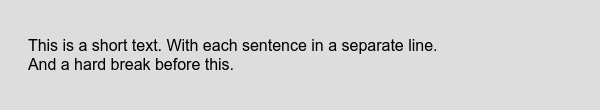
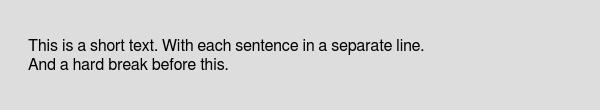
Add typographic replacements and language specification using styles.

Changed region(s): [[0.03, 0.3545, 0.72, 0.4909], [0.03, 0.5182, 0.39, 0.6545]]

diff --git a/src/examples/text/typographic-de.html b/src/examples/text/typographic-de.html
@@ -1,0 +1,14 @@
+<!DOCTYPE html><html lang="de">
+<head>
+<meta charset="UTF-8" />
+
+<title>undefined</title>
+<link rel="stylesheet" href="https://maxcdn.bootstrapcdn.com/font-awesome/4.7.0/css/font-awesome.min.css" />
+<style type="text/css">div#page{border:1px solid #aaa;-webkit-box-shadow:0 8px 16px 0 rgba(0,0,0,0.4),0 12px 40px 0 rgba(0,0,0,0.4);box-shadow:0 8px 16px 0 rgba(0,0,0,0.4),0 12px 40px 0 rgba(0,0,0,0.4);max-width:800px;display:inline-block;background:#fff;padding:17px;overflow:auto;}div#page > h1{margin-top:0}html{background:#ddd;padding:20px}body{font-family:"Helvetica Neue",Helvetica,"Segoe UI",Arial,freesans,sans-serif,"Apple Color Emoji","Segoe UI Emoji","Segoe UI Symbol";font-size:16px;line-height:1.2;-ms-word-break:break-all;word-break:break-all;word-break:break-word;-webkit-hyphens:auto;-moz-hyphens:auto;-ms-hyphens:auto;hyphens:auto;-webkit-hyphenate-before:2;-webkit-hyphenate-after:3;hyphenate-lines:3;word-wrap:break-word}h1,h2,h3,h4,h5,h6{font-weight:bold;}h1:before,h2:before,h3:before,h4:before,h5:before,h6:before{display:block;content:" ";margin-top:-66px;height:66px;visibility:hidden}h1,h2,h3{clear:both}h1{border-bottom:3px solid #222;padding-bottom:5px}h2{border-bottom:2px dotted #222;padding-bottom:3px}h3{border-bottom:2px dotted #aaa;padding-bottom:2px}h4{border-bottom:1px dotted #aaa}a{color:#00008b}dt{font-weight:bold;margin-top:8px}dd{margin-left:20px}svg{max-width:100%}img{max-width:100%;vertical-align:middle}.emoji{height:1em}abbr,acronym{border-bottom:dotted 1px}blockquote{border:1px solid #ddd;border-radius:3px;border-left:5px solid #337ab7;padding:5px 15px;margin:10px 0;}blockquote :first-child{margin-top:5px}blockquote :last-child{margin-bottom:5px}blockquote blockquote{margin-right:-16px;border-left-color:#eb9214;}blockquote blockquote blockquote{border-left-color:#5295cf;}blockquote blockquote blockquote blockquote{border-left-color:#f0ad4e;}blockquote blockquote blockquote blockquote blockquote{border-left-color:#7db0db;}blockquote blockquote blockquote blockquote blockquote blockquote{border-left-color:#f3bd71;}blockquote blockquote blockquote blockquote blockquote blockquote blockquote{border-left-color:#a9cae7}blockquote ul li p{margin-bottom:0}ul > li.task{list-style-type:none}li.taks input.task-checkbox{margin:0 .2em .25em -1.6em;vertical-align:middle}table{border-collapse:collapse;border-spacing:0;display:block;width:100%;overflow:auto;word-break:keep-all;margin-bottom:10px;}table th,table td{padding:6px 13px;border:1px solid #ddd}table th{background-color:rgba(0,0,0,0.04);font-weight:bold;border-bottom:3px solid #999}table tr{background-color:#fff;border-top:1px solid #ccc;}table tr:nth-child(2n){background-color:rgba(0,0,0,0.04)}a code{color:#337ab7}code,tt{background-color:#eee;border-radius:4px;font-size:85%;margin:0;padding:.2em 0}pre{background-color:#eee;border-radius:10px;border:1px solid #a4a4a4;font-size:85%;margin:20px;padding:10px;}pre code,pre tt{background:none}pre.language{counter-reset:line;padding-top:0;padding-bottom:0;overflow-x:hidden;}pre.language code,pre.language tt{display:block;position:relative;float:left;width:100%;border-left:45px solid #ddd;margin-left:-10px;padding-left:5px;}pre.language code:nth-child(2n),pre.language tt:nth-child(2n){border-left:45px solid #c7c7c7;background-color:#ededed}pre.language code:before,pre.language tt:before{counter-increment:line;content:counter(line);min-width:35px;float:left;text-align:right;padding-right:5px;color:#808080;-webkit-touch-callout:none;-webkit-user-select:none;-moz-user-select:none;-ms-user-select:none;user-select:none;-webkit-user-select:none;margin-left:-45px}pre.language code:first-of-type,pre.language tt:first-of-type{padding-top:10px}pre.language code:last-child,pre.language tt:last-child{padding-bottom:10px}ul.table-of-contents{border:2px solid #ddd;border-radius:10px;margin-top:0;padding:10px 10px 10px 25px;background:#fafafa;font-size:90%;float:right;}ul.table-of-contents header{font-weight:bold;font-size:120%;display:block;background:#ddd;margin:-10px -10px 4px -25px;border-top-left-radius:10px;border-top-right-radius:10px;padding:3px 10px}ul.table-of-contents ul{padding-left:15px}ul.table-of-contents a{text-decoration:none}.toplink{float:right;color:#222}.container{padding:0;margin-bottom:10px;}.container:after{content:'';display:table;clear:both}.container input.tab,.container input.tabs-size{display:none}.container input.tab + label{position:relative;z-index:1;display:block;float:left;cursor:pointer;padding:5px 10px;margin-bottom:-1px;border:1px solid #222;border-top-left-radius:10px;border-top-right-radius:10px;background:#ddd;-webkit-transition:all 0.5s;-moz-transition:all 0.5s;-o-transition:all 0.5s;-ms-transition:all 0.5s;transition:all 0.5s;opacity:.5;-ms-filter:"progid:DXImageTransform.Microsoft.Alpha(Opacity=50)";filter:alpha(opacity=50);font-weight:bold}.container input.tab + label:hover,.container input.tab:hover + label{opacity:1;-ms-filter:none;filter:none}.container .box{display:none;position:relative;clear:both;border:1px solid #222;border-top-right-radius:10px;border-bottom-left-radius:10px;border-bottom-right-radius:10px;padding:0 15px;-webkit-transition:all 0.5s;-moz-transition:all 0.5s;-o-transition:all 0.5s;-ms-transition:all 0.5s;transition:all 0.5s;overflow:auto;max-height:300px;}.container .box > p{margin-top:10px}.container input.tab:checked + label{cursor:default;border-bottom:1px solid #fff;opacity:1;-ms-filter:none;filter:none}.container .tab1:checked ~ .box1,.container .tab2:checked ~ .box2,.container .tab3:checked ~ .box3,.container .tab4:checked ~ .box4,.container .tab5:checked ~ .box5,.container .tab6:checked ~ .box6,.container .tab7:checked ~ .box7,.container .tab8:checked ~ .box8{display:block}.container .tabs-size + label{cursor:pointer;float:right;padding:5px 5px 0 5px;font-size:80%}.container .tabs-size-min:checked + label,.container .tabs-size-scroll:checked + label,.container .tabs-size-max:checked + label{display:none}.container .tabs-size-min:checked ~ .box{height:0}.container .tabs-size-max:checked ~ .box{max-height:none}@media print{input.tab + label{opacity:1 !important;-ms-filter:none !important;filter:none !important}.tabs-size-min + label,.tabs-size-scroll + label,.tabs-size-max + label{display:none}.box{display:block !important;max-height:none !important;height:auto !important}}.container input.tab + label.detail{background-image:-webkit-linear-gradient(top, #fafafa 0%, #999 100%);background-image:-moz-linear-gradient(top, #fafafa 0%, #999 100%);background-image:-o-linear-gradient(top, #fafafa 0%, #999 100%);background-image:-ms-linear-gradient(top, #fafafa 0%, #999 100%);background-image:linear-gradient(to bottom, #fafafa 0%, #999 100%);border-bottom-color:#999}.container div.detail{background-image:-webkit-linear-gradient(top, #fafafa 0%, #999 100%);background-image:-moz-linear-gradient(top, #fafafa 0%, #999 100%);background-image:-o-linear-gradient(top, #fafafa 0%, #999 100%);background-image:-ms-linear-gradient(top, #fafafa 0%, #999 100%);background-image:linear-gradient(to bottom, #fafafa 0%, #999 100%)}.container input.tab + label.info{background-image:-webkit-linear-gradient(top, #bedef0 0%, #7cbde1 100%);background-image:-moz-linear-gradient(top, #bedef0 0%, #7cbde1 100%);background-image:-o-linear-gradient(top, #bedef0 0%, #7cbde1 100%);background-image:-ms-linear-gradient(top, #bedef0 0%, #7cbde1 100%);background-image:linear-gradient(to bottom, #bedef0 0%, #7cbde1 100%);border-bottom-color:#7cbde1}.container div.info{background-image:-webkit-linear-gradient(top, #bedef0 0%, #7cbde1 100%);background-image:-moz-linear-gradient(top, #bedef0 0%, #7cbde1 100%);background-image:-o-linear-gradient(top, #bedef0 0%, #7cbde1 100%);background-image:-ms-linear-gradient(top, #bedef0 0%, #7cbde1 100%);background-image:linear-gradient(to bottom, #bedef0 0%, #7cbde1 100%)}.container input.tab + label.ok{background-image:-webkit-linear-gradient(top, #cfc 0%, #9f9 100%);background-image:-moz-linear-gradient(top, #cfc 0%, #9f9 100%);background-image:-o-linear-gradient(top, #cfc 0%, #9f9 100%);background-image:-ms-linear-gradient(top, #cfc 0%, #9f9 100%);background-image:linear-gradient(to bottom, #cfc 0%, #9f9 100%);border-bottom-color:#9f9}.container div.ok{background-image:-webkit-linear-gradient(top, #cfc 0%, #9f9 100%);background-image:-moz-linear-gradient(top, #cfc 0%, #9f9 100%);background-image:-o-linear-gradient(top, #cfc 0%, #9f9 100%);background-image:-ms-linear-gradient(top, #cfc 0%, #9f9 100%);background-image:linear-gradient(to bottom, #cfc 0%, #9f9 100%)}.container input.tab + label.warning{background-image:-webkit-linear-gradient(top, #fde6a5 0%, #fbcd4a 100%);background-image:-moz-linear-gradient(top, #fde6a5 0%, #fbcd4a 100%);background-image:-o-linear-gradient(top, #fde6a5 0%, #fbcd4a 100%);background-image:-ms-linear-gradient(top, #fde6a5 0%, #fbcd4a 100%);background-image:linear-gradient(to bottom, #fde6a5 0%, #fbcd4a 100%);border-bottom-color:#fbcd4a}.container div.warning{background-image:-webkit-linear-gradient(top, #fde6a5 0%, #fbcd4a 100%);background-image:-moz-linear-gradient(top, #fde6a5 0%, #fbcd4a 100%);background-image:-o-linear-gradient(top, #fde6a5 0%, #fbcd4a 100%);background-image:-ms-linear-gradient(top, #fde6a5 0%, #fbcd4a 100%);background-image:linear-gradient(to bottom, #fde6a5 0%, #fbcd4a 100%)}.container input.tab + label.alert{background-image:-webkit-linear-gradient(top, #f7c4b3 0%, #e86 100%);background-image:-moz-linear-gradient(top, #f7c4b3 0%, #e86 100%);background-image:-o-linear-gradient(top, #f7c4b3 0%, #e86 100%);background-image:-ms-linear-gradient(top, #f7c4b3 0%, #e86 100%);background-image:linear-gradient(to bottom, #f7c4b3 0%, #e86 100%);border-bottom-color:#e86}.container div.alert{background-image:-webkit-linear-gradient(top, #f7c4b3 0%, #e86 100%);background-image:-moz-linear-gradient(top, #f7c4b3 0%, #e86 100%);background-image:-o-linear-gradient(top, #f7c4b3 0%, #e86 100%);background-image:-ms-linear-gradient(top, #f7c4b3 0%, #e86 100%);background-image:linear-gradient(to bottom, #f7c4b3 0%, #e86 100%)}.container .box.pre{padding:0;}.container .box.pre pre,.container .box.pre table{margin:0;border:0;border-radius:0}.container input.tab + label.coffeescript,.container input.tab + label.javascript,.container input.tab + label.ruby,.container input.tab + label.python,.container input.tab + label.perl,.container input.tab + label.cc,.container input.tab + label.cpp,.container input.tab + label.cs,.container input.tab + label.java,.container input.tab + label.groovy,.container input.tab + label.php,.container input.tab + label.bash,.container input.tab + label.sql,.container input.tab + label.makefile{background-image:-webkit-linear-gradient(top, #f8d6a7 0%, #f0ad4e 100%);background-image:-moz-linear-gradient(top, #f8d6a7 0%, #f0ad4e 100%);background-image:-o-linear-gradient(top, #f8d6a7 0%, #f0ad4e 100%);background-image:-ms-linear-gradient(top, #f8d6a7 0%, #f0ad4e 100%);background-image:linear-gradient(to bottom, #f8d6a7 0%, #f0ad4e 100%);border-bottom-color:#f0ad4e}.container input.tab + label.json,.container input.tab + label.cson,.container input.tab + label.yaml{background-image:-webkit-linear-gradient(top, #93bde1 0%, #337ab7 100%);background-image:-moz-linear-gradient(top, #93bde1 0%, #337ab7 100%);background-image:-o-linear-gradient(top, #93bde1 0%, #337ab7 100%);background-image:-ms-linear-gradient(top, #93bde1 0%, #337ab7 100%);background-image:linear-gradient(to bottom, #93bde1 0%, #337ab7 100%);border-bottom-color:#337ab7}.container input.tab + label.jsp,.container input.tab + label.handlebars,.container input.tab + label.css,.container input.tab + label.stylus,.container input.tab + label.scss,.container input.tab + label.less{background-image:-webkit-linear-gradient(top, #75e5e2 0%, #1d9a96 100%);background-image:-moz-linear-gradient(top, #75e5e2 0%, #1d9a96 100%);background-image:-o-linear-gradient(top, #75e5e2 0%, #1d9a96 100%);background-image:-ms-linear-gradient(top, #75e5e2 0%, #1d9a96 100%);background-image:linear-gradient(to bottom, #75e5e2 0%, #1d9a96 100%);border-bottom-color:#1d9a96}.container input.tab + label.markdown,.container input.tab + label.html{background-image:-webkit-linear-gradient(top, #9bd09b 0%, #459245 100%);background-image:-moz-linear-gradient(top, #9bd09b 0%, #459245 100%);background-image:-o-linear-gradient(top, #9bd09b 0%, #459245 100%);background-image:-ms-linear-gradient(top, #9bd09b 0%, #459245 100%);background-image:linear-gradient(to bottom, #9bd09b 0%, #459245 100%);border-bottom-color:#459245}.text-red{color:#d13f19}.text-green{color:#2ecc40}.text-yellow{color:#ffdc00}.text-blue{color:#0074d9}.text-magenta{color:#f0f}.text-cyan{color:#0ff}.text-gray{color:#aaa}.bg-white{background-color:#fff}.center{text-align:center}.left{float:left}.right{float:right}.spacing{padding:10px}.hidden{display:none}.hljs{display:block;overflow-x:auto;padding:.5em;color:#333;background:#f8f8f8}.hljs-comment,.hljs-quote{color:#998;font-style:italic}.hljs-keyword,.hljs-selector-tag,.hljs-subst{color:#333;font-weight:bold}.hljs-number,.hljs-literal,.hljs-variable,.hljs-template-variable,.hljs-tag .hljs-attr{color:#008080}.hljs-string,.hljs-doctag{color:#d14}.hljs-title,.hljs-section,.hljs-selector-id{color:#900;font-weight:bold}.hljs-subst{font-weight:normal}.hljs-type,.hljs-class .hljs-title{color:#458;font-weight:bold}.hljs-tag,.hljs-name,.hljs-attribute{color:#000080;font-weight:normal}.hljs-regexp,.hljs-link{color:#009926}.hljs-symbol,.hljs-bullet{color:#990073}.hljs-built_in,.hljs-builtin-name{color:#0086b3}.hljs-meta{color:#999;font-weight:bold}.hljs-deletion{background:#fdd}.hljs-addition{background:#dfd}.hljs-emphasis{font-style:italic}.hljs-strong{font-weight:bold}</style>
+<meta name="generator" content="alinex-report" />
+</head>
+
+<body><div id="page">
+<p>I’m looking forward.<br />foo „foo ‚inside‘ bar“ bar</p>
+</div></body>
+</html>

diff --git a/src/examples/text/typographic.html b/src/examples/text/typographic.html
@@ -1,0 +1,14 @@
+<!DOCTYPE html><html>
+<head>
+<meta charset="UTF-8" />
+
+<title>undefined</title>
+<link rel="stylesheet" href="https://maxcdn.bootstrapcdn.com/font-awesome/4.7.0/css/font-awesome.min.css" />
+<style type="text/css">div#page{border:1px solid #aaa;-webkit-box-shadow:0 8px 16px 0 rgba(0,0,0,0.4),0 12px 40px 0 rgba(0,0,0,0.4);box-shadow:0 8px 16px 0 rgba(0,0,0,0.4),0 12px 40px 0 rgba(0,0,0,0.4);max-width:800px;display:inline-block;background:#fff;padding:17px;overflow:auto;}div#page > h1{margin-top:0}html{background:#ddd;padding:20px}body{font-family:"Helvetica Neue",Helvetica,"Segoe UI",Arial,freesans,sans-serif,"Apple Color Emoji","Segoe UI Emoji","Segoe UI Symbol";font-size:16px;line-height:1.2;-ms-word-break:break-all;word-break:break-all;word-break:break-word;-webkit-hyphens:auto;-moz-hyphens:auto;-ms-hyphens:auto;hyphens:auto;-webkit-hyphenate-before:2;-webkit-hyphenate-after:3;hyphenate-lines:3;word-wrap:break-word}h1,h2,h3,h4,h5,h6{font-weight:bold;}h1:before,h2:before,h3:before,h4:before,h5:before,h6:before{display:block;content:" ";margin-top:-66px;height:66px;visibility:hidden}h1,h2,h3{clear:both}h1{border-bottom:3px solid #222;padding-bottom:5px}h2{border-bottom:2px dotted #222;padding-bottom:3px}h3{border-bottom:2px dotted #aaa;padding-bottom:2px}h4{border-bottom:1px dotted #aaa}a{color:#00008b}dt{font-weight:bold;margin-top:8px}dd{margin-left:20px}svg{max-width:100%}img{max-width:100%;vertical-align:middle}.emoji{height:1em}abbr,acronym{border-bottom:dotted 1px}blockquote{border:1px solid #ddd;border-radius:3px;border-left:5px solid #337ab7;padding:5px 15px;margin:10px 0;}blockquote :first-child{margin-top:5px}blockquote :last-child{margin-bottom:5px}blockquote blockquote{margin-right:-16px;border-left-color:#eb9214;}blockquote blockquote blockquote{border-left-color:#5295cf;}blockquote blockquote blockquote blockquote{border-left-color:#f0ad4e;}blockquote blockquote blockquote blockquote blockquote{border-left-color:#7db0db;}blockquote blockquote blockquote blockquote blockquote blockquote{border-left-color:#f3bd71;}blockquote blockquote blockquote blockquote blockquote blockquote blockquote{border-left-color:#a9cae7}blockquote ul li p{margin-bottom:0}ul > li.task{list-style-type:none}li.taks input.task-checkbox{margin:0 .2em .25em -1.6em;vertical-align:middle}table{border-collapse:collapse;border-spacing:0;display:block;width:100%;overflow:auto;word-break:keep-all;margin-bottom:10px;}table th,table td{padding:6px 13px;border:1px solid #ddd}table th{background-color:rgba(0,0,0,0.04);font-weight:bold;border-bottom:3px solid #999}table tr{background-color:#fff;border-top:1px solid #ccc;}table tr:nth-child(2n){background-color:rgba(0,0,0,0.04)}a code{color:#337ab7}code,tt{background-color:#eee;border-radius:4px;font-size:85%;margin:0;padding:.2em 0}pre{background-color:#eee;border-radius:10px;border:1px solid #a4a4a4;font-size:85%;margin:20px;padding:10px;}pre code,pre tt{background:none}pre.language{counter-reset:line;padding-top:0;padding-bottom:0;overflow-x:hidden;}pre.language code,pre.language tt{display:block;position:relative;float:left;width:100%;border-left:45px solid #ddd;margin-left:-10px;padding-left:5px;}pre.language code:nth-child(2n),pre.language tt:nth-child(2n){border-left:45px solid #c7c7c7;background-color:#ededed}pre.language code:before,pre.language tt:before{counter-increment:line;content:counter(line);min-width:35px;float:left;text-align:right;padding-right:5px;color:#808080;-webkit-touch-callout:none;-webkit-user-select:none;-moz-user-select:none;-ms-user-select:none;user-select:none;-webkit-user-select:none;margin-left:-45px}pre.language code:first-of-type,pre.language tt:first-of-type{padding-top:10px}pre.language code:last-child,pre.language tt:last-child{padding-bottom:10px}ul.table-of-contents{border:2px solid #ddd;border-radius:10px;margin-top:0;padding:10px 10px 10px 25px;background:#fafafa;font-size:90%;float:right;}ul.table-of-contents header{font-weight:bold;font-size:120%;display:block;background:#ddd;margin:-10px -10px 4px -25px;border-top-left-radius:10px;border-top-right-radius:10px;padding:3px 10px}ul.table-of-contents ul{padding-left:15px}ul.table-of-contents a{text-decoration:none}.toplink{float:right;color:#222}.container{padding:0;margin-bottom:10px;}.container:after{content:'';display:table;clear:both}.container input.tab,.container input.tabs-size{display:none}.container input.tab + label{position:relative;z-index:1;display:block;float:left;cursor:pointer;padding:5px 10px;margin-bottom:-1px;border:1px solid #222;border-top-left-radius:10px;border-top-right-radius:10px;background:#ddd;-webkit-transition:all 0.5s;-moz-transition:all 0.5s;-o-transition:all 0.5s;-ms-transition:all 0.5s;transition:all 0.5s;opacity:.5;-ms-filter:"progid:DXImageTransform.Microsoft.Alpha(Opacity=50)";filter:alpha(opacity=50);font-weight:bold}.container input.tab + label:hover,.container input.tab:hover + label{opacity:1;-ms-filter:none;filter:none}.container .box{display:none;position:relative;clear:both;border:1px solid #222;border-top-right-radius:10px;border-bottom-left-radius:10px;border-bottom-right-radius:10px;padding:0 15px;-webkit-transition:all 0.5s;-moz-transition:all 0.5s;-o-transition:all 0.5s;-ms-transition:all 0.5s;transition:all 0.5s;overflow:auto;max-height:300px;}.container .box > p{margin-top:10px}.container input.tab:checked + label{cursor:default;border-bottom:1px solid #fff;opacity:1;-ms-filter:none;filter:none}.container .tab1:checked ~ .box1,.container .tab2:checked ~ .box2,.container .tab3:checked ~ .box3,.container .tab4:checked ~ .box4,.container .tab5:checked ~ .box5,.container .tab6:checked ~ .box6,.container .tab7:checked ~ .box7,.container .tab8:checked ~ .box8{display:block}.container .tabs-size + label{cursor:pointer;float:right;padding:5px 5px 0 5px;font-size:80%}.container .tabs-size-min:checked + label,.container .tabs-size-scroll:checked + label,.container .tabs-size-max:checked + label{display:none}.container .tabs-size-min:checked ~ .box{height:0}.container .tabs-size-max:checked ~ .box{max-height:none}@media print{input.tab + label{opacity:1 !important;-ms-filter:none !important;filter:none !important}.tabs-size-min + label,.tabs-size-scroll + label,.tabs-size-max + label{display:none}.box{display:block !important;max-height:none !important;height:auto !important}}.container input.tab + label.detail{background-image:-webkit-linear-gradient(top, #fafafa 0%, #999 100%);background-image:-moz-linear-gradient(top, #fafafa 0%, #999 100%);background-image:-o-linear-gradient(top, #fafafa 0%, #999 100%);background-image:-ms-linear-gradient(top, #fafafa 0%, #999 100%);background-image:linear-gradient(to bottom, #fafafa 0%, #999 100%);border-bottom-color:#999}.container div.detail{background-image:-webkit-linear-gradient(top, #fafafa 0%, #999 100%);background-image:-moz-linear-gradient(top, #fafafa 0%, #999 100%);background-image:-o-linear-gradient(top, #fafafa 0%, #999 100%);background-image:-ms-linear-gradient(top, #fafafa 0%, #999 100%);background-image:linear-gradient(to bottom, #fafafa 0%, #999 100%)}.container input.tab + label.info{background-image:-webkit-linear-gradient(top, #bedef0 0%, #7cbde1 100%);background-image:-moz-linear-gradient(top, #bedef0 0%, #7cbde1 100%);background-image:-o-linear-gradient(top, #bedef0 0%, #7cbde1 100%);background-image:-ms-linear-gradient(top, #bedef0 0%, #7cbde1 100%);background-image:linear-gradient(to bottom, #bedef0 0%, #7cbde1 100%);border-bottom-color:#7cbde1}.container div.info{background-image:-webkit-linear-gradient(top, #bedef0 0%, #7cbde1 100%);background-image:-moz-linear-gradient(top, #bedef0 0%, #7cbde1 100%);background-image:-o-linear-gradient(top, #bedef0 0%, #7cbde1 100%);background-image:-ms-linear-gradient(top, #bedef0 0%, #7cbde1 100%);background-image:linear-gradient(to bottom, #bedef0 0%, #7cbde1 100%)}.container input.tab + label.ok{background-image:-webkit-linear-gradient(top, #cfc 0%, #9f9 100%);background-image:-moz-linear-gradient(top, #cfc 0%, #9f9 100%);background-image:-o-linear-gradient(top, #cfc 0%, #9f9 100%);background-image:-ms-linear-gradient(top, #cfc 0%, #9f9 100%);background-image:linear-gradient(to bottom, #cfc 0%, #9f9 100%);border-bottom-color:#9f9}.container div.ok{background-image:-webkit-linear-gradient(top, #cfc 0%, #9f9 100%);background-image:-moz-linear-gradient(top, #cfc 0%, #9f9 100%);background-image:-o-linear-gradient(top, #cfc 0%, #9f9 100%);background-image:-ms-linear-gradient(top, #cfc 0%, #9f9 100%);background-image:linear-gradient(to bottom, #cfc 0%, #9f9 100%)}.container input.tab + label.warning{background-image:-webkit-linear-gradient(top, #fde6a5 0%, #fbcd4a 100%);background-image:-moz-linear-gradient(top, #fde6a5 0%, #fbcd4a 100%);background-image:-o-linear-gradient(top, #fde6a5 0%, #fbcd4a 100%);background-image:-ms-linear-gradient(top, #fde6a5 0%, #fbcd4a 100%);background-image:linear-gradient(to bottom, #fde6a5 0%, #fbcd4a 100%);border-bottom-color:#fbcd4a}.container div.warning{background-image:-webkit-linear-gradient(top, #fde6a5 0%, #fbcd4a 100%);background-image:-moz-linear-gradient(top, #fde6a5 0%, #fbcd4a 100%);background-image:-o-linear-gradient(top, #fde6a5 0%, #fbcd4a 100%);background-image:-ms-linear-gradient(top, #fde6a5 0%, #fbcd4a 100%);background-image:linear-gradient(to bottom, #fde6a5 0%, #fbcd4a 100%)}.container input.tab + label.alert{background-image:-webkit-linear-gradient(top, #f7c4b3 0%, #e86 100%);background-image:-moz-linear-gradient(top, #f7c4b3 0%, #e86 100%);background-image:-o-linear-gradient(top, #f7c4b3 0%, #e86 100%);background-image:-ms-linear-gradient(top, #f7c4b3 0%, #e86 100%);background-image:linear-gradient(to bottom, #f7c4b3 0%, #e86 100%);border-bottom-color:#e86}.container div.alert{background-image:-webkit-linear-gradient(top, #f7c4b3 0%, #e86 100%);background-image:-moz-linear-gradient(top, #f7c4b3 0%, #e86 100%);background-image:-o-linear-gradient(top, #f7c4b3 0%, #e86 100%);background-image:-ms-linear-gradient(top, #f7c4b3 0%, #e86 100%);background-image:linear-gradient(to bottom, #f7c4b3 0%, #e86 100%)}.container .box.pre{padding:0;}.container .box.pre pre,.container .box.pre table{margin:0;border:0;border-radius:0}.container input.tab + label.coffeescript,.container input.tab + label.javascript,.container input.tab + label.ruby,.container input.tab + label.python,.container input.tab + label.perl,.container input.tab + label.cc,.container input.tab + label.cpp,.container input.tab + label.cs,.container input.tab + label.java,.container input.tab + label.groovy,.container input.tab + label.php,.container input.tab + label.bash,.container input.tab + label.sql,.container input.tab + label.makefile{background-image:-webkit-linear-gradient(top, #f8d6a7 0%, #f0ad4e 100%);background-image:-moz-linear-gradient(top, #f8d6a7 0%, #f0ad4e 100%);background-image:-o-linear-gradient(top, #f8d6a7 0%, #f0ad4e 100%);background-image:-ms-linear-gradient(top, #f8d6a7 0%, #f0ad4e 100%);background-image:linear-gradient(to bottom, #f8d6a7 0%, #f0ad4e 100%);border-bottom-color:#f0ad4e}.container input.tab + label.json,.container input.tab + label.cson,.container input.tab + label.yaml{background-image:-webkit-linear-gradient(top, #93bde1 0%, #337ab7 100%);background-image:-moz-linear-gradient(top, #93bde1 0%, #337ab7 100%);background-image:-o-linear-gradient(top, #93bde1 0%, #337ab7 100%);background-image:-ms-linear-gradient(top, #93bde1 0%, #337ab7 100%);background-image:linear-gradient(to bottom, #93bde1 0%, #337ab7 100%);border-bottom-color:#337ab7}.container input.tab + label.jsp,.container input.tab + label.handlebars,.container input.tab + label.css,.container input.tab + label.stylus,.container input.tab + label.scss,.container input.tab + label.less{background-image:-webkit-linear-gradient(top, #75e5e2 0%, #1d9a96 100%);background-image:-moz-linear-gradient(top, #75e5e2 0%, #1d9a96 100%);background-image:-o-linear-gradient(top, #75e5e2 0%, #1d9a96 100%);background-image:-ms-linear-gradient(top, #75e5e2 0%, #1d9a96 100%);background-image:linear-gradient(to bottom, #75e5e2 0%, #1d9a96 100%);border-bottom-color:#1d9a96}.container input.tab + label.markdown,.container input.tab + label.html{background-image:-webkit-linear-gradient(top, #9bd09b 0%, #459245 100%);background-image:-moz-linear-gradient(top, #9bd09b 0%, #459245 100%);background-image:-o-linear-gradient(top, #9bd09b 0%, #459245 100%);background-image:-ms-linear-gradient(top, #9bd09b 0%, #459245 100%);background-image:linear-gradient(to bottom, #9bd09b 0%, #459245 100%);border-bottom-color:#459245}.text-red{color:#d13f19}.text-green{color:#2ecc40}.text-yellow{color:#ffdc00}.text-blue{color:#0074d9}.text-magenta{color:#f0f}.text-cyan{color:#0ff}.text-gray{color:#aaa}.bg-white{background-color:#fff}.center{text-align:center}.left{float:left}.right{float:right}.spacing{padding:10px}.hidden{display:none}.hljs{display:block;overflow-x:auto;padding:.5em;color:#333;background:#f8f8f8}.hljs-comment,.hljs-quote{color:#998;font-style:italic}.hljs-keyword,.hljs-selector-tag,.hljs-subst{color:#333;font-weight:bold}.hljs-number,.hljs-literal,.hljs-variable,.hljs-template-variable,.hljs-tag .hljs-attr{color:#008080}.hljs-string,.hljs-doctag{color:#d14}.hljs-title,.hljs-section,.hljs-selector-id{color:#900;font-weight:bold}.hljs-subst{font-weight:normal}.hljs-type,.hljs-class .hljs-title{color:#458;font-weight:bold}.hljs-tag,.hljs-name,.hljs-attribute{color:#000080;font-weight:normal}.hljs-regexp,.hljs-link{color:#009926}.hljs-symbol,.hljs-bullet{color:#990073}.hljs-built_in,.hljs-builtin-name{color:#0086b3}.hljs-meta{color:#999;font-weight:bold}.hljs-deletion{background:#fdd}.hljs-addition{background:#dfd}.hljs-emphasis{font-style:italic}.hljs-strong{font-weight:bold}</style>
+<meta name="generator" content="alinex-report" />
+</head>
+
+<body><div id="page">
+<p>I’m looking forward.<br />foo “foo ‘inside’ bar” bar</p>
+</div></body>
+</html>

diff --git a/src/examples/text/typographic-de.tokens.js b/src/examples/text/typographic-de.tokens.js
@@ -1,0 +1,30 @@
+TokenList {
+  data: 
+   [ { type: 'document', nesting: 1, level: 0 },
+     { type: 'style',
+       nesting: 0,
+       format: 'html',
+       block: true,
+       content: 'document:lang=de',
+       level: 1,
+       parent: [Object] },
+     { type: 'paragraph', nesting: 1, level: 1, parent: [Object] },
+     { type: 'text',
+       nesting: 0,
+       content: 'I\'m looking forward.',
+       level: 2,
+       parent: [Object] },
+     { type: 'hardbreak', nesting: 0, level: 2, parent: [Object] },
+     { type: 'text',
+       nesting: 0,
+       content: 'foo "foo \'inside\' bar" bar',
+       level: 2,
+       parent: [Object] },
+     { type: 'paragraph', nesting: -1, level: 1, parent: [Object] },
+     { type: 'document', nesting: -1, level: 0 } ],
+  pos: 7,
+  token: 
+   { type: 'paragraph',
+     nesting: -1,
+     level: 1,
+     parent: { type: 'document', nesting: 1, level: 0 } } }

diff --git a/src/examples/text/typographic.tokens.js b/src/examples/text/typographic.tokens.js
@@ -1,0 +1,23 @@
+TokenList {
+  data: 
+   [ { type: 'document', nesting: 1, level: 0 },
+     { type: 'paragraph', nesting: 1, level: 1, parent: [Object] },
+     { type: 'text',
+       nesting: 0,
+       content: 'I\'m looking forward.',
+       level: 2,
+       parent: [Object] },
+     { type: 'hardbreak', nesting: 0, level: 2, parent: [Object] },
+     { type: 'text',
+       nesting: 0,
+       content: 'foo "foo \'inside\' bar" bar',
+       level: 2,
+       parent: [Object] },
+     { type: 'paragraph', nesting: -1, level: 1, parent: [Object] },
+     { type: 'document', nesting: -1, level: 0 } ],
+  pos: 6,
+  token: 
+   { type: 'paragraph',
+     nesting: -1,
+     level: 1,
+     parent: { type: 'document', nesting: 1, level: 0 } } }

diff --git a/src/examples/text/typographic-de.md b/src/examples/text/typographic-de.md
@@ -1,0 +1,4 @@
+<!-- {document:lang=de} -->
+
+I'm looking forward.\
+foo "foo 'inside' bar" bar

diff --git a/src/examples/text/typographic-de.source.md b/src/examples/text/typographic-de.source.md
@@ -1,0 +1,3 @@
+<!-- {document:lang=de} -->
+I'm looking forward.\
+foo "foo 'inside' bar" bar

diff --git a/src/examples/text/typographic.md b/src/examples/text/typographic.md
@@ -1,0 +1,2 @@
+I'm looking forward.\
+foo "foo 'inside' bar" bar

diff --git a/src/examples/text/typographic.source.md b/src/examples/text/typographic.source.md
@@ -1,0 +1,2 @@
+I'm looking forward.\
+foo "foo 'inside' bar" bar
